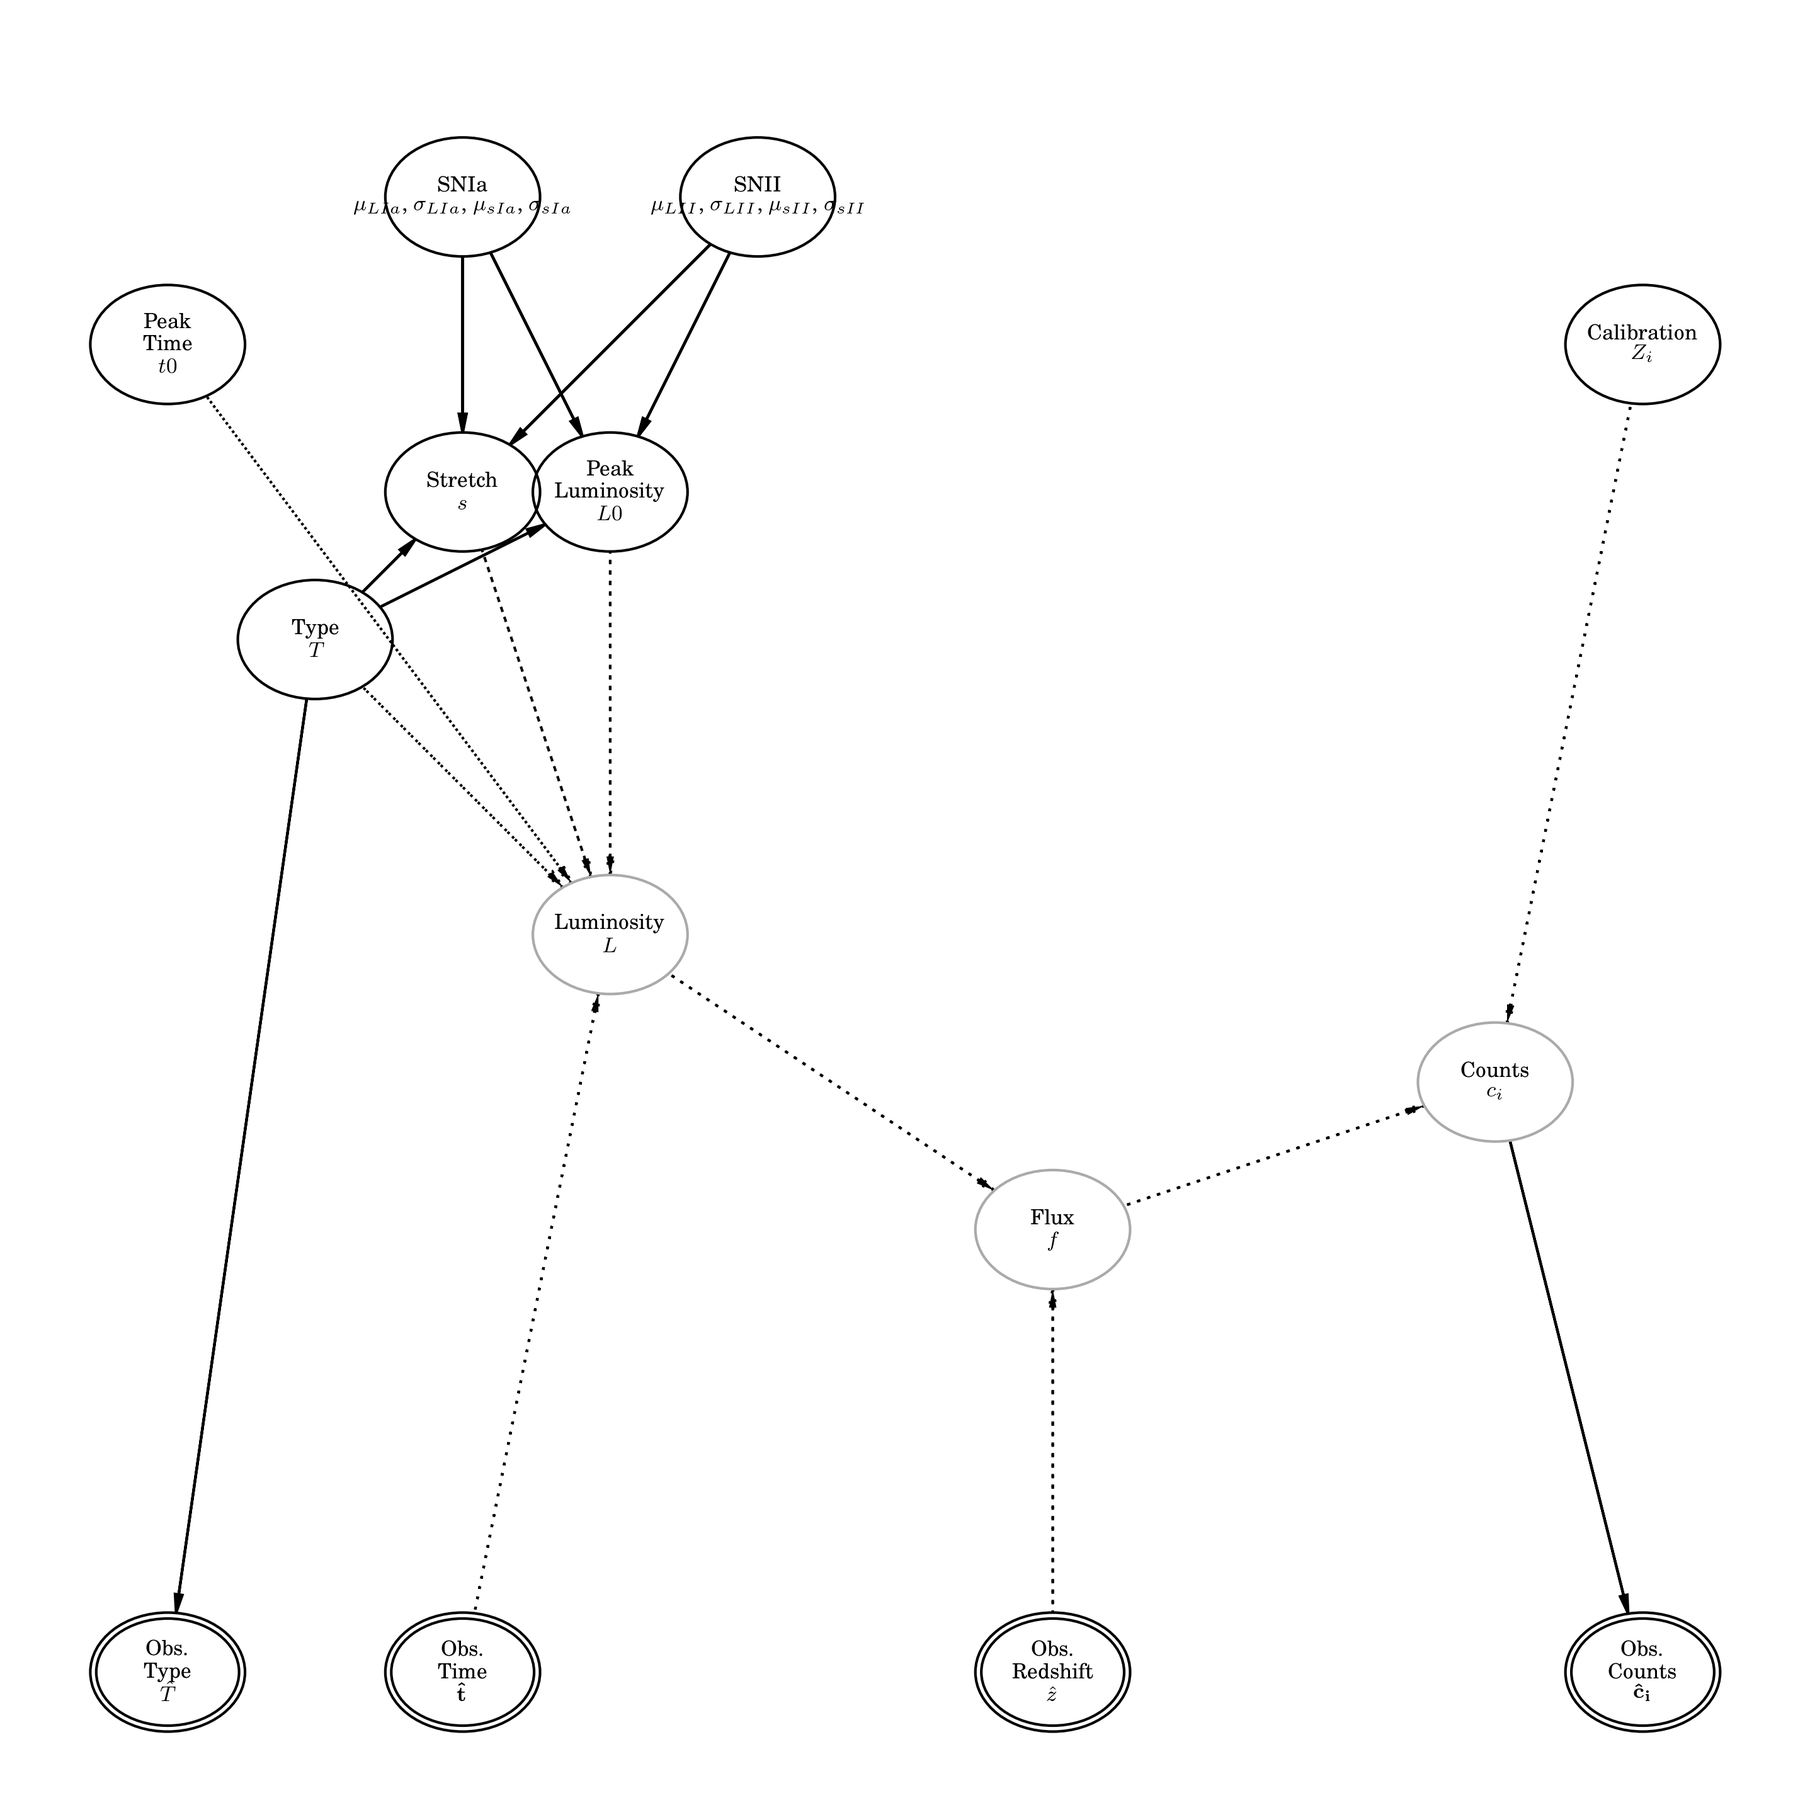
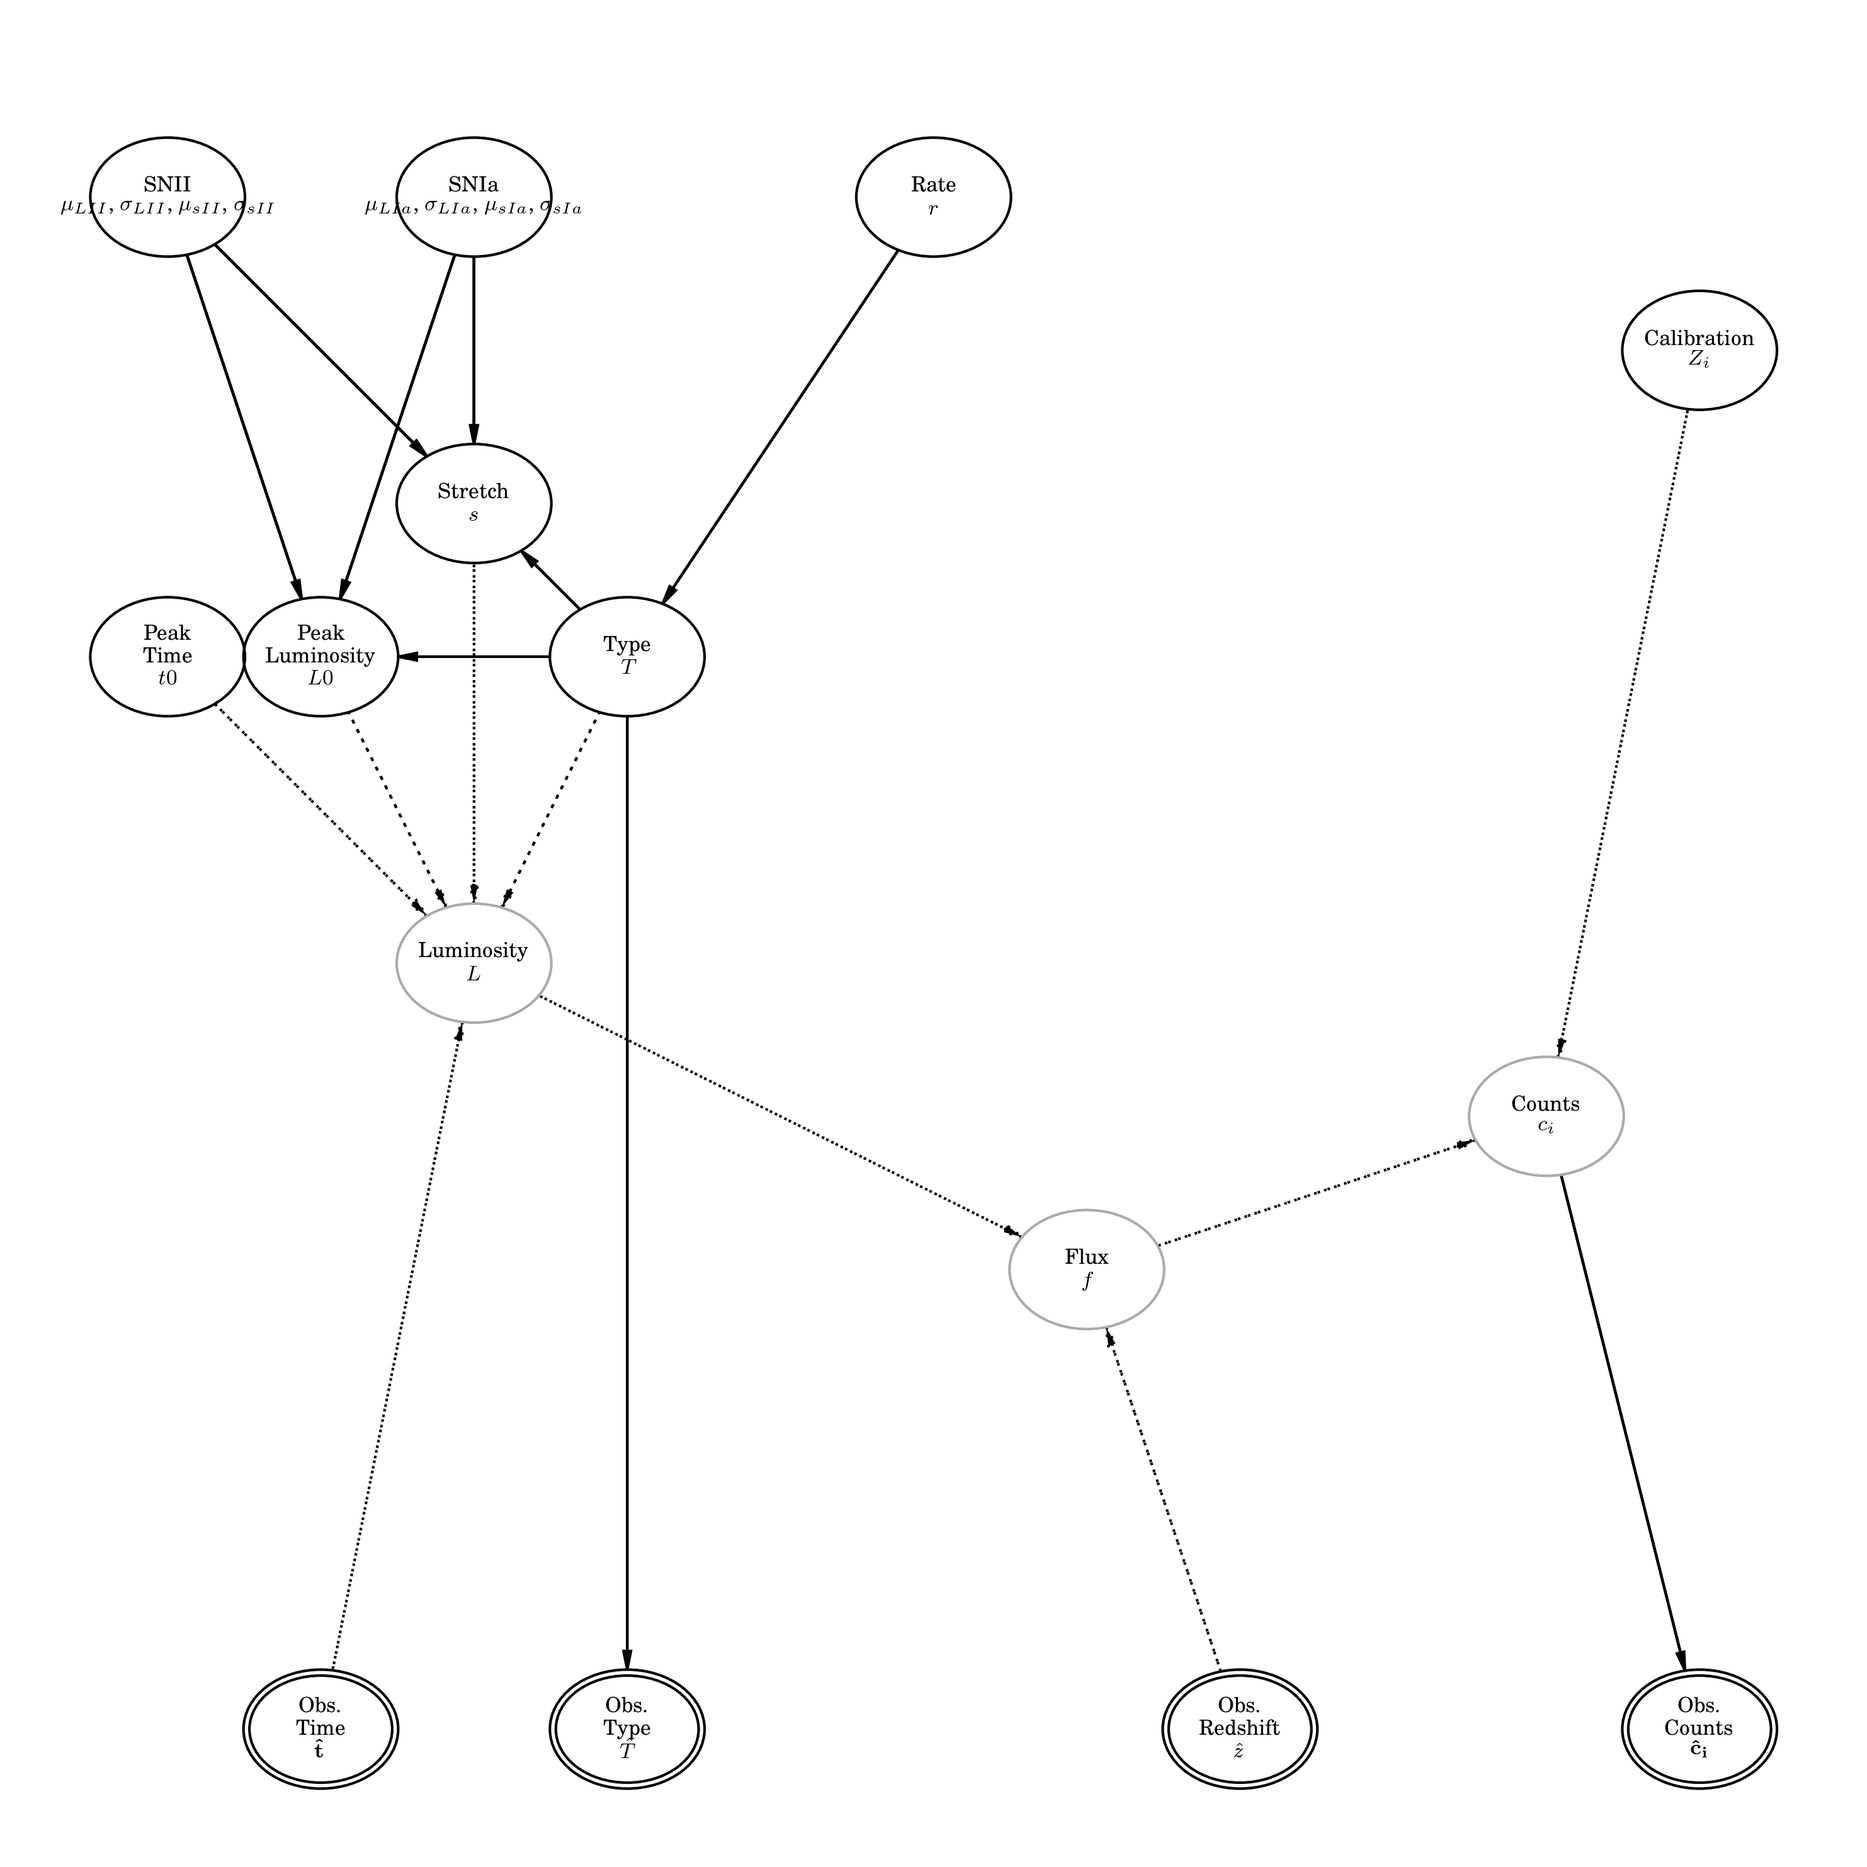
Uncorrect chain update.

diff --git a/dessn/proofs/efficiency_9/efficiency_model_9.py b/dessn/proofs/efficiency_9/efficiency_model_9.py
@@ -265,6 +265,32 @@ class Calibration(ParameterUnderlying):
         return chi2
 
 
+class Rate(ParameterUnderlying):
+    def __init__(self):
+        super().__init__("rate", "$r$", group="Rate")
+
+    def get_suggestion_sigma(self, data):
+        return 0.3
+
+    def get_suggestion(self, data):
+        return 0.6
+
+    def get_log_prior(self, data):
+        if data["rate"] < 0 or data["rate"] > 1:
+            return -np.inf
+        return 1
+
+
+class ToRate(Edge):
+    def __init__(self):
+        super().__init__("type", "rate")
+
+    def get_log_likelihood(self, data):
+        ias = data["type"] == "Ia"
+        r = data["rate"]
+        return np.log(r * ias + (1 - r) * (1 - ias))
+
+
 class ToType(Edge):
     def __init__(self):
         super().__init__("type_o", "type")
@@ -293,7 +319,8 @@ class ToFlux(EdgeTransformation):
     def get_transformation(self, data):
         lum = data["lum"]
         z = data["z_o"][:, None]
-        return {"f": lum / (z * z)}
+        flux = lum / (z * z)
+        return {"f": flux}
 
 
 class ToLuminosity(EdgeTransformation):
@@ -306,9 +333,10 @@ class ToLuminosity(EdgeTransformation):
         diff = data["t"][:, None] - data["t_o"]
         vals1 = np.exp(-(diff * diff) / (2 * s * s))
         vals2 = np.exp(-np.abs(diff) / (2 * s * s))
-        mask = data["type"] == "Ia"
-        vals = mask * vals1 + (1 - mask) * vals2
-        return {"lum": l0 * vals}
+        mask = 1.0 * (data["type"] == "Ia")
+        vals = mask[:, None] * vals1 + (1 - mask)[:, None] * vals2
+        lums = l0 * vals
+        return {"lum": lums}
 
 
 class ToObservedCounts(Edge):
@@ -376,12 +404,13 @@ class EfficiencyModelUncorrected(Model):
         # Underlying parameters
         self.add(LuminosityMeanIa())
         self.add(LuminositySigmaIa())
-        self.add(StretchMeanIa())
-        self.add(StretchSigmaIa())
         self.add(LuminosityMeanII())
         self.add(LuminositySigmaII())
+        self.add(StretchMeanIa())
+        self.add(StretchSigmaIa())
         self.add(StretchMeanII())
         self.add(StretchSigmaII())
+        self.add(Rate())
         self.add(Calibration(observed_zero_points, observed_calibration))
 
         # Transformed Edges
@@ -390,6 +419,7 @@ class EfficiencyModelUncorrected(Model):
         self.add(ToFlux())
 
         # Edges
+        self.add(ToRate())
         self.add(ToType())
         self.add(ToLuminosityDistribution())
         self.add(ToStretchDistribution())
@@ -398,14 +428,22 @@ class EfficiencyModelUncorrected(Model):
         self.finalise()
 
 
-def get_weights(mul, sigmal, mus, sigmas, z0, z1, threshold, n=2e4):
+def get_weights(mul, mul2, sigmal, sigmal2, mus, mus2, sigmas, sigmas2, rate, z0, z1, threshold, n=3e4):
     n = int(n)
-    ls = np.random.normal(loc=mul, scale=sigmal, size=n)
-    ss = np.random.normal(loc=mus, scale=sigmas, size=n)
-    zs = np.random.uniform(1.1, high=1.5, size=n)
+    type = np.random.random(size=n) < rate
+    ls1 = np.random.normal(loc=mul, scale=sigmal, size=n)
+    ls2 = np.random.normal(loc=mul2, scale=sigmal2, size=n)
+    ss1 = np.random.normal(loc=mus, scale=sigmas, size=n)
+    ss2 = np.random.normal(loc=mus2, scale=sigmas2, size=n)
+    ls = type * ls1 + (1 - type) * ls2
+    ss = type * ss1 + (1 - type) * ss2
+    zs = np.random.uniform(0.6, high=1.5, size=n)
 
     ts = np.arange(-30, 30, 1)
-    interior = -(ts * ts)[:, None] / (2 * ss * ss)[None, :]
+    top1 = -(ts * ts)
+    top2 = -(ts * ts)**0.5
+    top = type * top1 + (1 - type) * top2
+    interior = top[:, None] / (2 * ss * ss)[None, :]
     fluxes = (ls / (zs * zs))[None, :] * np.exp(interior)
 
     masks = []
@@ -423,7 +461,7 @@ def get_weights(mul, sigmal, mus, sigmas, z0, z1, threshold, n=2e4):
     return mean
 
 
-def get_data(seed=5, n=30):
+def get_data(seed=5, n=50):
     np.random.seed(seed=seed)
 
     # Experimental Configuration
@@ -437,7 +475,8 @@ def get_data(seed=5, n=30):
     factor = np.power(10, zeros / 2.5)
 
     # Distributions
-    rate = 0.7
+    rate = 0.6
+    screwup = 0.3
     lmu = 500
     lmu2 = 300
     lsigma2 = 30
@@ -464,7 +503,7 @@ def get_data(seed=5, n=30):
             types.append("Ia")
             l0 = np.random.normal(loc=lmu, scale=lsigma)
             s = np.random.normal(loc=smu, scale=ssigma)
-            z = np.random.uniform(0.1, 1.5)
+            z = np.random.uniform(0.6, 1.5)
             lums = l0 * np.exp(-(t * t) / (2 * s * s))
         else:
             types.append("II")
@@ -480,7 +519,6 @@ def get_data(seed=5, n=30):
         mask_point = c_o > threshold
         mask_band = mask_point.sum(axis=1) >= 2
         mask_all = mask_band.sum() > 0
-
         zs.append(z)
         ts.append(t + t0)
         cs.append(c_o)
@@ -488,6 +526,13 @@ def get_data(seed=5, n=30):
         ls.append(l0)
         ss.append(s)
         t0s.append(t0)
+    for i, type in enumerate(types):
+        if np.random.random() < screwup:
+            if type == "Ia":
+                types[i] = "II"
+            elif type == "II":
+                types[i] = "Ia"
+
     zs = np.array(zs)
     ts = np.array(ts)
     cs = np.array(cs)
@@ -497,11 +542,11 @@ def get_data(seed=5, n=30):
     mask = np.array(mask)
     print(mask.sum(), n, mask.sum()/n, ls.mean(), ls[mask].mean(), np.std(ls), np.std(ls[mask]))
 
-    return lmu, lsigma, lmu2, lsigma2, smu, ssigma, smu2, ssigma2, zeros, calibration, threshold, ls, ss, t0s, zs, ts, cs, mask, num_obs, types
+    return lmu, lsigma, lmu2, lsigma2, smu, ssigma, smu2, ssigma2, rate, zeros, calibration, threshold, ls, ss, t0s, zs, ts, cs, mask, num_obs, types
 
 
 def plot_data(dir_name):
-    lmu, lmu2, lsigma, lsigma2, smu, smu2, ssigma, ssigma2, zeros, calibration, threshold, ls, ss, t0s, zs, ts, cs, mask, num_obs, types = get_data(n=2000)
+    lmu, lmu2, lsigma, lsigma2, smu, smu2, ssigma, ssigma2, rate, zeros, calibration, threshold, ls, ss, t0s, zs, ts, cs, mask, num_obs, types = get_data(n=2000)
 
     plt.rc('text', usetex=True)
     plt.rc('font', family='serif')
@@ -524,38 +569,35 @@ if __name__ == "__main__":
     walk_file = os.path.abspath(dir_name + "/output/walk_%s.png")
 
     # plot_data(dir_name)
-    # lmu, lmu2, lsigma, lsigma2, smu, smu2, ssigma, ssigma2, zeros, calibration, threshold, ls, ss, t0s, zs, ts, cs, mask, num_obs, types = get_data(n=1000)
+    # lmu, lmu2, lsigma, lsigma2, smu, smu2, ssigma, ssigma2, rate, zeros, calibration, threshold, ls, ss, t0s, zs, ts, cs, mask, num_obs, types = get_data(n=1000)
     # model = EfficiencyModelUncorrected(cs, zs, ts, types, calibration, zeros, ls, ss, t0s, )
     # pgm_file = os.path.abspath(dir_name + "/output/pgm.png")
-    # fig = model.get_pgm(pgm_file, seed=15)
+    # fig = model.get_pgm(pgm_file, seed=5)
     c = ChainConsumer()
     n = 1
     w = 4
     colours = ["#4CAF50", "#D32F2F", "#1E88E5"] * n
     for i in range(n):
-        lmu, lmu2, lsigma, lsigma2, smu, smu2, ssigma, ssigma2, zeros, calibration, threshold, ls, ss, t0s, zs, ts, cs, mask, num_obs, types = get_data(seed=i)
-        theta = [lmu, lmu2, lsigma, lsigma2, smu, smu2, ssigma, ssigma2] + zeros.tolist()
+        lmu, lmu2, lsigma, lsigma2, smu, smu2, ssigma, ssigma2, rate, zeros, calibration, threshold, ls, ss, t0s, zs, ts, cs, mask, num_obs, types = get_data(seed=i)
+        theta = [lmu, lmu2, lsigma, lsigma2, smu, smu2, ssigma, ssigma2, rate] + zeros.tolist() + ls.tolist() + t0s.tolist() + ss.tolist()
         theta2 = theta + ls.tolist() + t0s.tolist() + ss.tolist()
-
-        # kwargs = {"num_steps": 3000, "num_burn": 360000, "save_interval": 60, "plot_covariance": True, "covariance_adjust": 20000}
-        # sampler = BatchMetropolisHastings(num_walkers=w, kwargs=kwargs, temp_dir=t % i, num_cores=1)
-        sampler = EnsembleSampler(temp_dir=t % i, num_steps=1000, num_burn=900, save_interval=60)
+        kwargs = {"num_steps": 5000, "num_burn": 250000, "save_interval": 60, "plot_covariance": True, "covariance_adjust": 10000}
+        sampler = BatchMetropolisHastings(num_walkers=w, kwargs=kwargs, temp_dir=t % i, num_cores=4)
 
         model_good = EfficiencyModelUncorrected(cs, zs, ts, types, calibration, zeros, ls, ss, t0s, name="Good%d" % i)
-        model_good.fit(sampler, chain_consumer=c)
 
-        # model_un = EfficiencyModelUncorrected(cs[mask], zs[mask], ts[mask], types[mask], calibration,
+        model_good.fit(sampler, chain_consumer=c)
+        # mtypes = [t for t, m in zip(types, mask) if m]
+        # model_un = EfficiencyModelUncorrected(cs[mask], zs[mask], ts[mask], mtypes, calibration,
         #                                       zeros, ls[mask], ss[mask], t0s[mask], name="Uncorrected%d" % i)
         # model_un.fit(sampler, chain_consumer=c)
         #
         # biased_chain = c.chains[-1]
-        # model_cor.fit(sampler, chain_consumer=c)
-
         # filename = dir_name + "/output/weights.txt"
         # if not os.path.exists(filename):
         #     weights = []
         #     for i, row in enumerate(biased_chain):
-        #         weights.append(get_weights(row[0], row[1], row[2], row[3], row[4], row[5], threshold))
+        #         weights.append(get_weights(row[0], row[1], row[2], row[3], row[4], row[5], row[6], row[7], row[8], row[9], row[10], threshold))
         #         print(100.0 * i / biased_chain.shape[0])
         #     weights = np.array(weights)
         #     np.savetxt(filename, weights)
@@ -567,7 +609,7 @@ if __name__ == "__main__":
     c.configure_bar(shade=True)
     c.configure_general(bins=1.0, colours=colours)
     c.configure_contour(sigmas=[0, 0.01, 1, 2], contourf=True, contourf_alpha=0.2)
-    c.plot(filename=plot_file, truth=theta, figsize=(7, 7), legend=False, parameters=6)
+    c.plot(filename=plot_file, truth=theta, figsize=(7, 7), legend=False, parameters=10)
     for i in range(len(c.chains)):
         c.plot_walks(filename=walk_file % c.names[i], chain=i, truth=theta)
         # c.divide_chain(i, w).configure_general(rainbow=True) \

diff --git a/dessn/proofs/efficiency_9/__init__.py b/dessn/proofs/efficiency_9/__init__.py
@@ -11,8 +11,8 @@ We now introduce another functional form (our type II analogue) with luminosity
     L = L_0 \exp\left[ - \frac{|t-t_0|}{2s_0^2} \right].
 
 We utilise different distributions for the peak luminosity and stretch. In addition, we
-also introduce an observed type. The observed type is determined to be correct 70% of the time,
-such that
+also introduce an observed type, which we implement with a flat prior. The observed type is
+determined to be correct 70% of the time, such that
 
 .. math::
     P(T_o|T) = \begin{cases}0.7 & \text{ if } T_o = T \\ 0.3 & \text{otherwise}\end{cases}
@@ -33,5 +33,14 @@ Example data that might be observed is shown below.
     distinct luminosity populations, and how the dimmer type II analogues suffer a greater
     amount of selection bias.
 
+Computing the weights to correct the biased posterior surface into an unbiased surface
+is done via Monte Carlo integration, following the previous example. This time, we also
+include integration over type.
 
+
+
+
+.. figure::     ../dessn/proofs/efficiency_9/output/surfaces.png
+    :width:     100%
+    :align:     center
 """

diff --git a/dessn/framework/model.py b/dessn/framework/model.py
@@ -329,10 +329,7 @@ class Model(object):
                                 t[key] = value * len(discrete)
                             elif type(value) == np.ndarray:
                                 n = len(value)
-                                shape = list(value.shape)
-                                nn = len(discrete)
-                                shape[0] *= nn
-                                t[key] = np.tile(value, nn).reshape(tuple(shape))
+                                t[key] = np.tile(value.T, len(discrete)).T
                     assert n > 0, "No observational data found to effect!"
                     t[first_name] = np.repeat(discrete, self.n)
                     combine = np.tile(np.arange(self.n), len(discrete))
@@ -501,6 +498,7 @@ class Model(object):
         if np.any(np.isnan(result)):
             self.logger.error("Got NaN probability from %s: %s" % (edge, theta_dict))
             raise ValueError("NaN")
+        # print(edge, result)
         return result
 
     def get_pgm(self, filename=None, seed=0, num=1):  # pragma: no cover

diff --git a/doc/proofs.rst b/doc/proofs.rst
@@ -30,7 +30,7 @@ were constructed to this effect.
     |                                                                |                                                                  |                                                                       |
     |:ref:`efficiency4`                                              |:ref:`efficiency5`                                                |:ref:`efficiency6`                                                     |
     +----------------------------------------------------------------+------------------------------------------------------------------+-----------------------------------------------------------------------+
-    |..  image:: ../dessn/proofs/efficiency_7/output/surfaces1.png   |..  image:: ../dessn/proofs/efficiency_8/output/surfaces.png      |..  image:: ../dessn/proofs/efficiency_8/output/surfaces.png           |
+    |..  image:: ../dessn/proofs/efficiency_7/output/surfaces1.png   |..  image:: ../dessn/proofs/efficiency_8/output/surfaces.png      |..  image:: ../dessn/proofs/efficiency_9/output/surfaces.png           |
     |    :width: 95%                                                 |    :width: 95%                                                   |    :width: 95%                                                        |
     |    :align: center                                              |    :align: center                                                |    :align: center                                                     |
     |    :target: efficiency7.html                                   |    :target: efficiency8.html                                     |    :target: efficiency9.html                                          |
